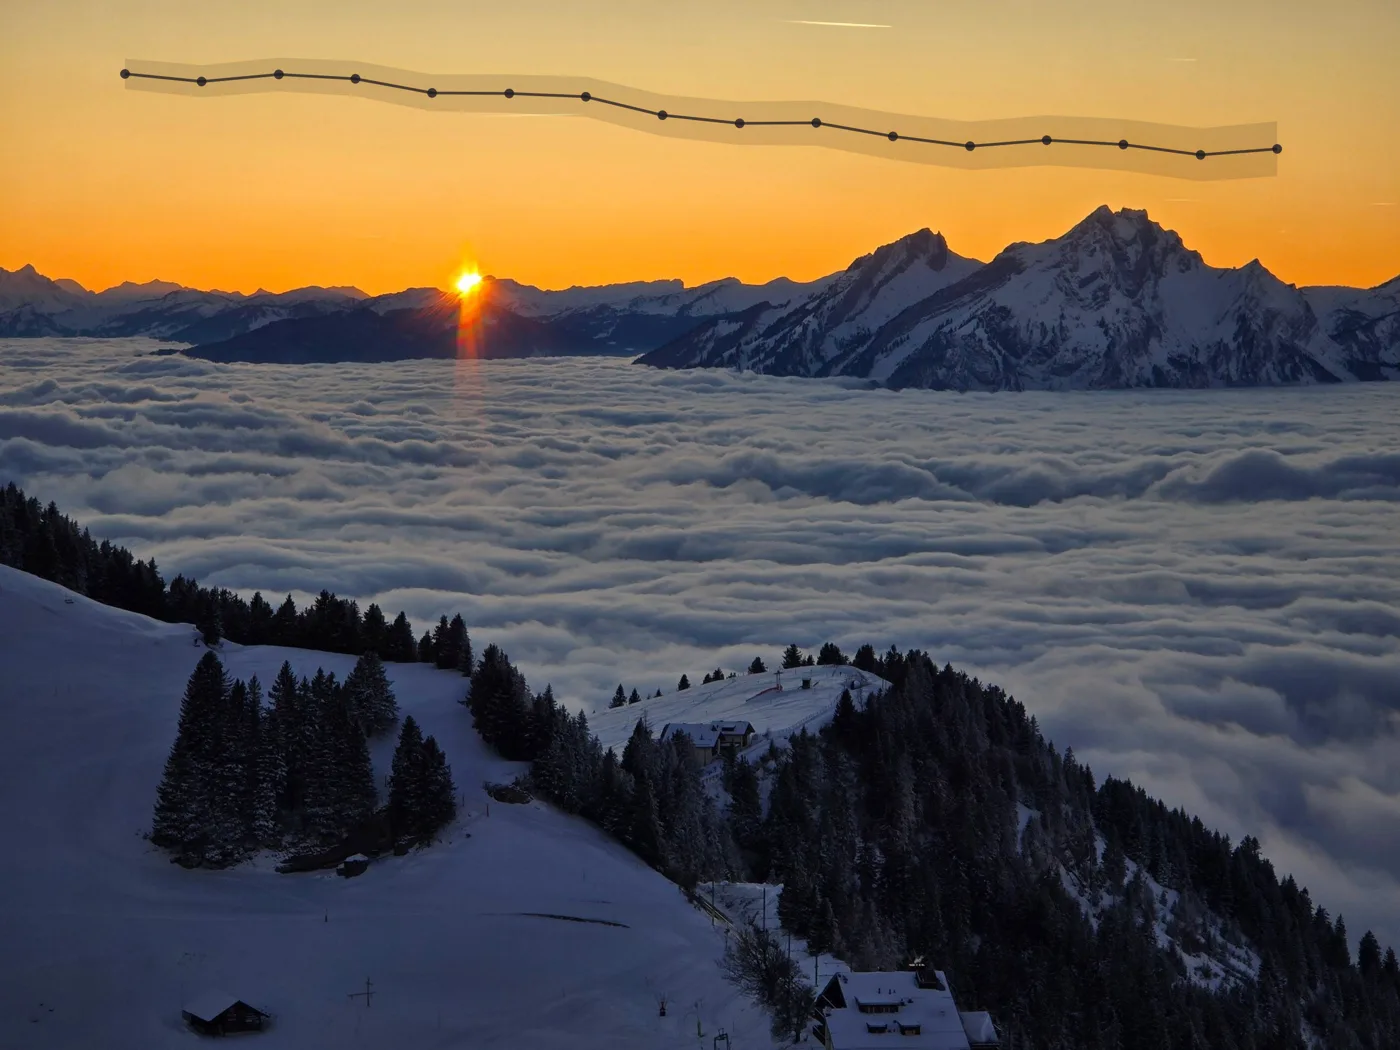
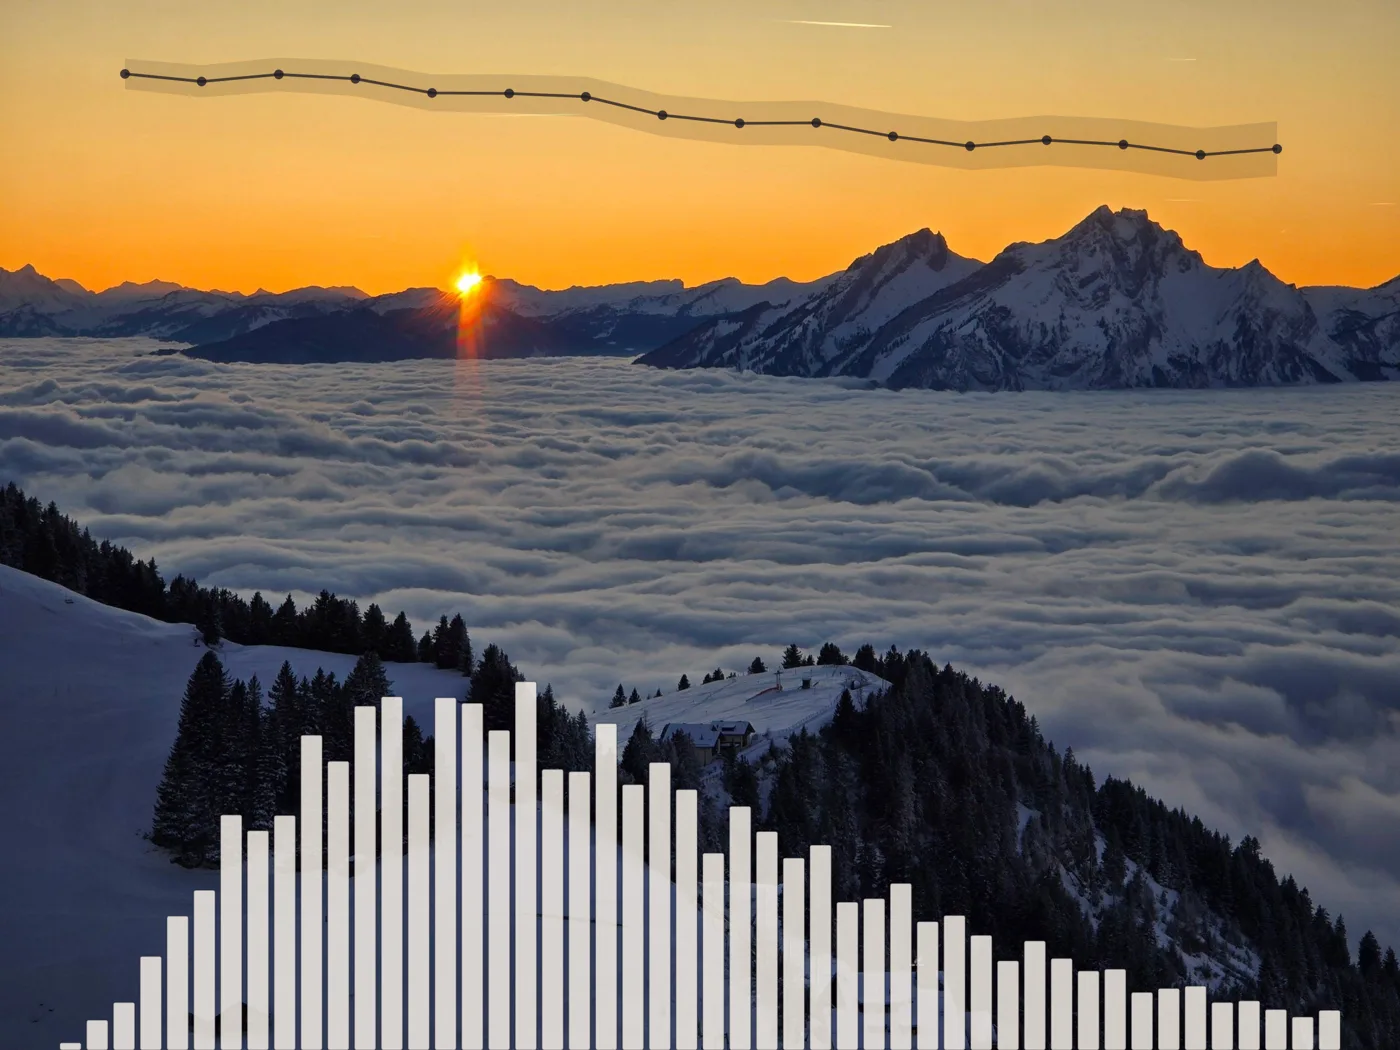
Bars on resistance image, profile links on one row, full-width Research intro
Claude-Session: https://claude.ai/code/session_01SXKKvp6TiPYX6AX3GDUBrc

Changed region(s): [[0.0307, 0.64, 0.9829, 1.0]]

diff --git a/styles/theme.scss b/styles/theme.scss
@@ -140,9 +140,9 @@ body.home {
 .mp-hero__trace { width: 100%; max-width: 464px; height: auto; }
 
 .mp-hero__links {
-  display: flex; flex-wrap: wrap; gap: 10px;
-  font-family: $font-family-monospace; font-size: 0.78rem;
-  a { border: 1px solid #7A5153; border-radius: 999px; padding: 8px 14px; }
+  display: flex; flex-wrap: nowrap; gap: 8px;
+  font-family: $font-family-monospace; font-size: 0.72rem;
+  a { border: 1px solid #7A5153; border-radius: 999px; padding: 7px 11px; white-space: nowrap; }
   a:hover { border-color: $sunrise; }
 }
 
@@ -168,6 +168,7 @@ body.home {
   .mp-hero { grid-template-columns: minmax(0, 1fr); min-height: 0; }
   .mp-hero__photo { order: -1; min-height: 300px; }
   .mp-hero__panel { padding: 32px max(20px, env(safe-area-inset-left, 0px)); }
+  .mp-hero__links { flex-wrap: wrap; }
 }
 
 // ---------- Content pages ----------
@@ -245,16 +246,17 @@ h2::after {
   padding: 2rem 0;
   border-top: 1px solid #E8DFD6;
 }
-.mp-theme {
-  width: min(1100px, calc(100vw - 48px));
-  position: relative;
-  left: 50%;
-  transform: translateX(-50%);
+body.research main.content {
+  max-width: 1100px;
+  margin-left: auto;
+  margin-right: auto;
+  padding-left: max(20px, env(safe-area-inset-left, 0px));
+  padding-right: max(20px, env(safe-area-inset-right, 0px));
 }
 .mp-theme--flip > .mp-theme__fig { order: 2; }
 .mp-theme__text { min-width: 0; }
 @media (max-width: 860px) {
-  .mp-theme { grid-template-columns: minmax(0, 1fr); gap: 16px; width: 100%; left: 0; transform: none; }
+  .mp-theme { grid-template-columns: minmax(0, 1fr); gap: 16px; }
   .mp-theme--flip > .mp-theme__fig { order: 0; }
 }
 .mp-theme h3 { margin-top: 0; }
